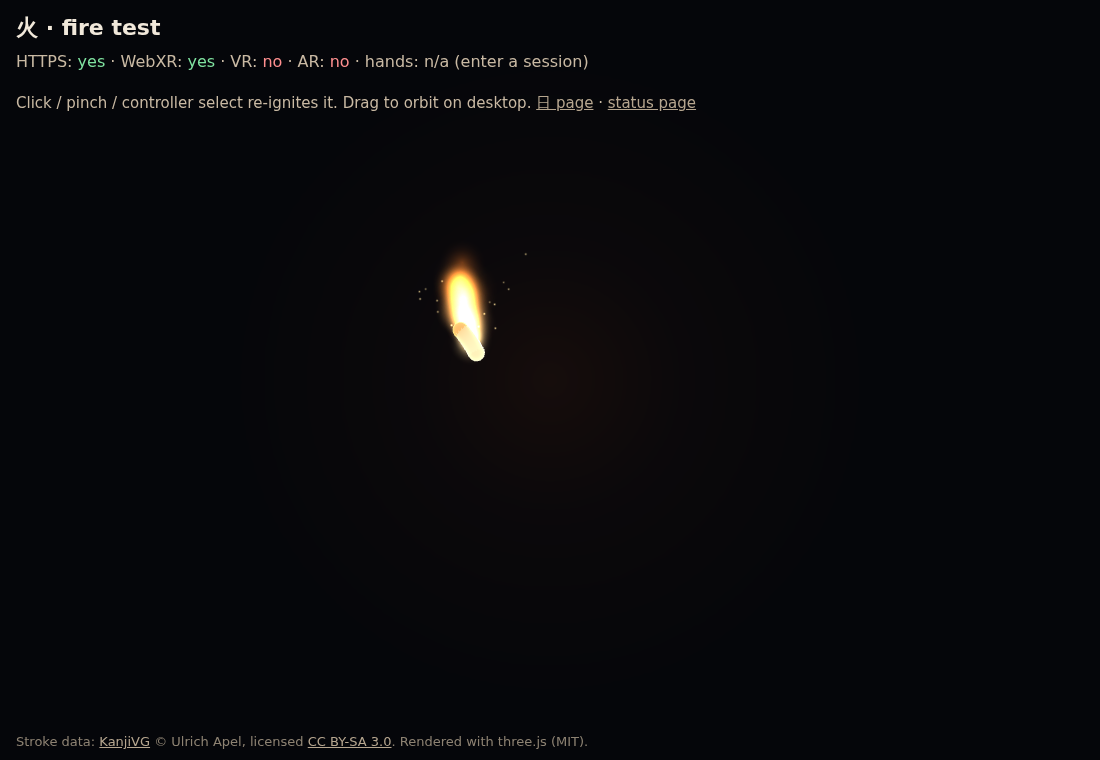
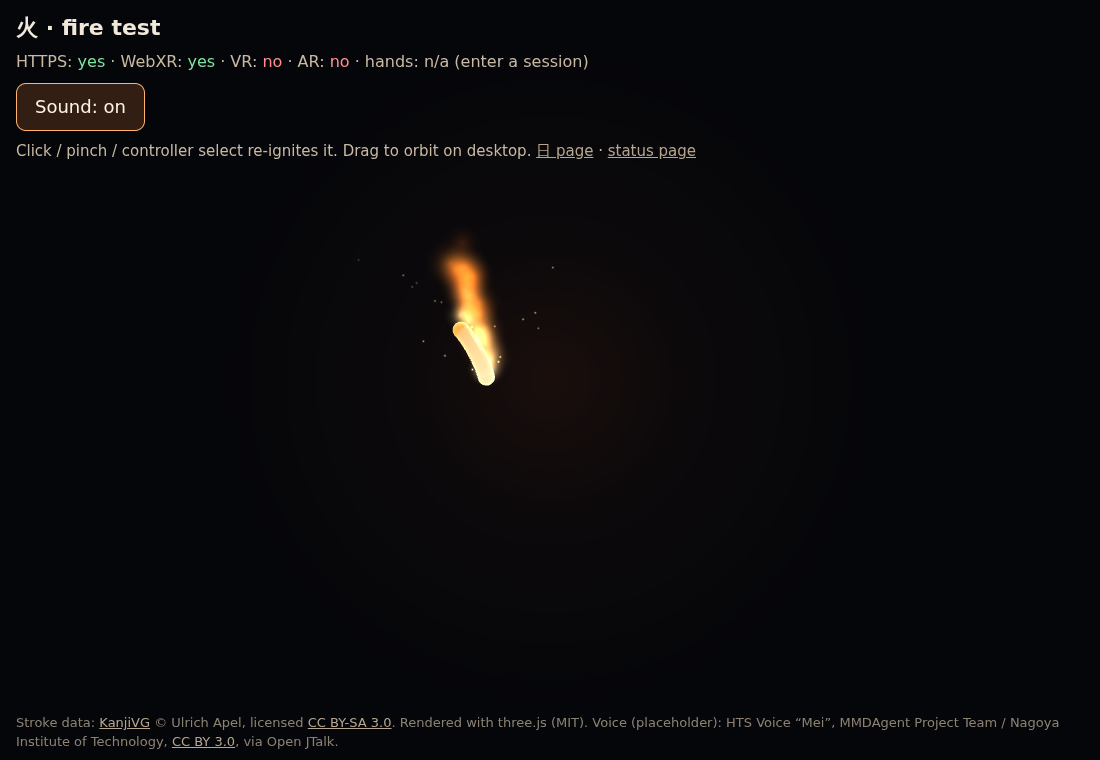
Fire page: faster strokes, calmer fire, furigana fade-in, spoken reading
- Stroke burn time x0.6 (all strokes done in ~2.9s, was ~4.6s)
- Flame density, size and opacity reduced ~20%
- Furigana (ひ) fades in above the glyph when the last stroke finishes
- Spoken ひ via Open JTalk (placeholder voice) with scripts/make-audio.py and a Sound toggle
- README and credits updated

Claude-Session: https://claude.ai/code/session_01AaNQvAE4ZjNRzfYPZ61ATu

Changed region(s): [[0.0, 0.0908, 0.6491, 0.2118], [0.0, 0.9382, 0.9582, 0.9987], [0.3709, 0.3026, 0.4636, 0.5145]]

diff --git a/src/fire.js b/src/fire.js
@@ -10,11 +10,12 @@ const STROKE_WIDTH_UNITS = 6.5; // KanjiVG units
 const DEPTH_RATIO = 1.6;
 const DIST = 1.2;               // metres in front of the viewer in XR
 const DESKTOP_POS = new THREE.Vector3(0, 1.4, -DIST);
-const IGNITE_START = 0.6;       // seconds of darkness before the first stroke is lit
-const STROKE_GAP = 0.1;
-const FLAME_PER_RING = 1.3;     // flames per second per burning stroke sample
+const IGNITE_START = 0.5;       // seconds of darkness before the first stroke is lit
+const STROKE_GAP = 0.06;
+const STROKE_SPEED = 0.6;       // multiplies every stroke's burn time (1 = the first version, 0.6 = 40% shorter)
+const FLAME_PER_RING = 1.0;     // flames per second per burning stroke sample
 const EMBER_PER_RING = 0.07;
-const FRONT_FLAMES = 110, FRONT_SPARKS = 70; // per second at each moving flame front
+const FRONT_FLAMES = 90, FRONT_SPARKS = 60; // per second at each moving flame front
 const MAX_P = 1800;             // particle pool size
 
 const params = new URLSearchParams(location.search);
@@ -150,7 +151,7 @@ let cursor = IGNITE_START;
 const capGeo = new THREE.SphereGeometry(RADIUS, 20, 14);
 const strokes = kanji.strokes.map((s, si) => {
   const pts = s.points.map(([x, y]) => new THREE.Vector3((x - cx) * S, -(y - cy) * S, 0));
-  const dur = 0.35 + s.length * 0.012, start = cursor;
+  const dur = (0.35 + s.length * 0.012) * STROKE_SPEED, start = cursor;
   cursor += dur + STROKE_GAP;
   const heat = new Float32Array(pts.length * RADIAL);
   const segs = pts.length - 1;
@@ -162,6 +163,48 @@ const strokes = kanji.strokes.map((s, si) => {
   return { si, pts, dur, start, segs, heat, tIgn, tube, startCap, tip };
 });
 const BURN_END = cursor;
+const STROKES_END = Math.max(...strokes.map((s) => s.start + s.dur)); // the last stroke has finished: furigana and sound start here
+
+// furigana: the reading, floating above the glyph, drawn on top of the flames and faded in once the strokes finish
+const READING = 'ひ';
+function readingTexture(txt) {
+  const c = document.createElement('canvas'); c.width = c.height = 256;
+  const g = c.getContext('2d');
+  g.textAlign = 'center'; g.textBaseline = 'middle';
+  g.font = '700 190px "Noto Sans CJK JP","Noto Sans JP","Hiragino Sans","Yu Gothic",Meiryo,sans-serif';
+  g.shadowColor = 'rgba(255,150,60,0.9)'; g.shadowBlur = 28; g.fillStyle = '#fff4de';
+  g.fillText(txt, 128, 138); g.fillText(txt, 128, 138); // twice thickens the glow
+  const tex = new THREE.CanvasTexture(c); tex.colorSpace = THREE.SRGBColorSpace;
+  return tex;
+}
+const FURI_Y = GLYPH_HEIGHT / 2 + 0.115;
+const furiBackMat = new THREE.MeshBasicMaterial({ map: radialTexture(), color: 0x000000, transparent: true, opacity: 0, depthTest: false, depthWrite: false });
+const furiBack = new THREE.Mesh(new THREE.PlaneGeometry(0.32, 0.32), furiBackMat);
+const furiMat = new THREE.MeshBasicMaterial({ map: readingTexture(READING), transparent: true, opacity: 0, depthTest: false, depthWrite: false });
+const furi = new THREE.Mesh(new THREE.PlaneGeometry(0.14, 0.14), furiMat);
+furiBack.renderOrder = 19; furi.renderOrder = 20;
+furiBack.position.set(0, FURI_Y, 0.03); furi.position.set(0, FURI_Y, 0.04);
+group.add(furiBack, furi);
+function applyFurigana(t) {
+  const f = smooth((t - STROKES_END) / 0.7);
+  furiMat.opacity = f; furiBackMat.opacity = 0.3 * f; // faint dark backing keeps it legible over bright flames
+  furi.position.y = FURI_Y - 0.02 * (1 - f);
+}
+
+// spoken reading (placeholder voice, see scripts/make-audio.py). Plays once when the strokes finish.
+const sayAudio = new Audio('./audio/hi.mp3');
+sayAudio.preload = 'auto';
+sayAudio.addEventListener('error', () => { state.note = 'Could not load audio/hi.mp3'; renderStatus(); });
+let soundOn = true, said = false;
+function say() {
+  if (!soundOn) return;
+  sayAudio.currentTime = 0;
+  sayAudio.play().catch(() => { state.note = 'Sound is blocked until you tap the page once (browser autoplay rule).'; renderStatus(); });
+}
+const soundBtn = document.createElement('button');
+soundBtn.textContent = 'Sound: on';
+soundBtn.onclick = () => { soundOn = !soundOn; soundBtn.textContent = 'Sound: ' + (soundOn ? 'on' : 'off'); state.note = ''; renderStatus(); };
+buttonsEl.appendChild(soundBtn);
 const allRings = [];
 for (const s of strokes) s.pts.forEach((_, i) => allRings.push({ s, i, t: s.tIgn[i] }));
 allRings.sort((a, b) => a.t - b.t);
@@ -222,7 +265,7 @@ const pMat = new THREE.ShaderMaterial({
       if (kind < 0.5) {            // flame: white-yellow -> orange -> red
         vec3 c0 = vec3(1.0, 0.92, 0.65), c1 = vec3(1.0, 0.5, 0.1), c2 = vec3(0.75, 0.12, 0.02);
         col = age < 0.35 ? mix(c0, c1, age / 0.35) : mix(c1, c2, (age - 0.35) / 0.65);
-        alpha = a * (1.0 - age) * 0.55;
+        alpha = a * (1.0 - age) * 0.46;
       } else if (kind < 1.5) {     // ember: flickering orange dot
         col = vec3(1.0, 0.55, 0.15);
         alpha = a * (1.0 - age) * (0.65 + 0.35 * sin(uTime * 12.0 + seed * 40.0));
@@ -275,7 +318,7 @@ function stepSim(t, dt) {
   acc.ember += burned * EMBER_PER_RING * dt;
   for (; acc.flame >= 1; acc.flame--) {
     const r = allRings[Math.floor(rnd() * burned)]; const [x, y, z] = surfacePoint(r.s, r.i, 1);
-    spawn(0, x, y, z, (rnd() - 0.5) * 0.04, 0.12 + rnd() * 0.16, (rnd() - 0.5) * 0.03, 0.9 + rnd() * 0.8, 0.045 + rnd() * 0.04);
+    spawn(0, x, y, z, (rnd() - 0.5) * 0.04, 0.12 + rnd() * 0.16, (rnd() - 0.5) * 0.03, 0.9 + rnd() * 0.8, 0.04 + rnd() * 0.035);
   }
   for (; acc.ember >= 1; acc.ember--) {
     const r = allRings[Math.floor(rnd() * burned)]; const [x, y, z] = surfacePoint(r.s, r.i, 1.5);
@@ -287,7 +330,7 @@ function stepSim(t, dt) {
     const p = (t - s.start) / s.dur;
     if (p <= 0 || p >= 1.05) continue;
     const tip = s.tip.position;
-    for (let n = acc.front; n >= 1; n--) spawn(0, tip.x + (rnd() - 0.5) * RADIUS, tip.y, tip.z + (rnd() - 0.5) * RZ, (rnd() - 0.5) * 0.06, 0.14 + rnd() * 0.18, (rnd() - 0.5) * 0.05, 0.6 + rnd() * 0.5, 0.05 + rnd() * 0.035);
+    for (let n = acc.front; n >= 1; n--) spawn(0, tip.x + (rnd() - 0.5) * RADIUS, tip.y, tip.z + (rnd() - 0.5) * RZ, (rnd() - 0.5) * 0.06, 0.14 + rnd() * 0.18, (rnd() - 0.5) * 0.05, 0.6 + rnd() * 0.5, 0.045 + rnd() * 0.03);
     for (let n = acc.spark; n >= 1; n--) {
       const a = rnd() * Math.PI * 2, sp = 0.15 + rnd() * 0.35;
       spawn(2, tip.x, tip.y, tip.z, Math.cos(a) * sp, 0.1 + rnd() * sp, (rnd() - 0.5) * sp, 0.35 + rnd() * 0.45, 0.006);
@@ -323,9 +366,10 @@ function stepSim(t, dt) {
   // the fire lights the room: bloom follows how much of the glyph is burning, with a fast flicker
   const burn = Math.min(1, burned / allRings.length);
   const flicker = 0.85 + 0.15 * Math.sin(t * 13.0) * Math.sin(t * 7.3 + 1.0) + 0.08 * Math.sin(t * 31.0);
-  bloomMat.opacity = (0.06 + 0.5 * burn) * flicker;
+  bloomMat.opacity = (0.06 + 0.42 * burn) * flicker;
   bloom.scale.setScalar(0.8 + 0.45 * burn);
   pMat.uniforms.uTime.value = t;
+  applyFurigana(t);
 }
 
 // ---------- timing / replay ----------
@@ -337,11 +381,11 @@ function simulateTo(t) {
   for (let tau = 0; tau < t; tau += h) stepSim(tau, h);
   stepSim(t, 0);
 }
-function replay() { frozen = null; resetSim(); t0 = last = performance.now(); }
+function replay() { frozen = null; said = false; resetSim(); t0 = last = performance.now(); }
 window.__setTime = (t) => { frozen = t; simulateTo(t); };
 if (frozen !== null) simulateTo(frozen);
 window.__ready = true;
-window.__dbg = { camera, controls };
+window.__dbg = { camera, controls, audio: sayAudio };
 
 let down = null;
 renderer.domElement.addEventListener('pointerdown', (e) => { down = [e.clientX, e.clientY]; });
@@ -423,7 +467,9 @@ renderer.setAnimationLoop((now, frame) => {
   if (frozen === null) {
     const nowMs = performance.now();
     const dt = Math.min(0.05, (nowMs - last) / 1000); last = nowMs;
-    stepSim((nowMs - t0) / 1000, dt);
+    const t = (nowMs - t0) / 1000;
+    stepSim(t, dt);
+    if (!said && t >= STROKES_END) { said = true; say(); }
   }
   if (controls.enabled) controls.update();
   renderer.render(scene, camera);

diff --git a/fire.html b/fire.html
@@ -29,7 +29,7 @@
   <div id="buttons"></div>
   <div id="hint">Click / pinch / controller select re-ignites it. Drag to orbit on desktop. <a href="./">日 page</a> · <a href="status.html">status page</a></div>
 </div>
-<div id="footer">Stroke data: <a href="https://kanjivg.org">KanjiVG</a> © Ulrich Apel, licensed <a href="https://creativecommons.org/licenses/by-sa/3.0/">CC BY-SA 3.0</a>. Rendered with three.js (MIT).</div>
+<div id="footer">Stroke data: <a href="https://kanjivg.org">KanjiVG</a> © Ulrich Apel, licensed <a href="https://creativecommons.org/licenses/by-sa/3.0/">CC BY-SA 3.0</a>. Rendered with three.js (MIT). Voice (placeholder): HTS Voice “Mei”, MMDAgent Project Team / Nagoya Institute of Technology, <a href="https://creativecommons.org/licenses/by/3.0/">CC BY 3.0</a>, via Open JTalk.</div>
 <script type="importmap">
 { "imports": { "three": "./vendor/three/three.module.js" } }
 </script>

diff --git a/scripts/make-audio.py b/scripts/make-audio.py
@@ -1,0 +1,33 @@
+#!/usr/bin/env python3
+"""Generate the spoken reading for the 火 page with Open JTalk (offline, no network at run time).
+
+Setup (once):  python3 -m venv .venv-tts && . .venv-tts/bin/activate && pip install pyopenjtalk-plus soundfile
+Run:           python3 scripts/make-audio.py          -> audio/hi.mp3  (needs ffmpeg)
+
+This is a PLACEHOLDER voice: the bundled "Mei" HTS voice is intelligible but robotic. To use something better
+(VOICEVOX, Azure, Google ...), render the same kana and overwrite audio/hi.mp3; the page does not care how it was made.
+Voice credit: HTS Voice "Mei", MMDAgent Project Team / Nagoya Institute of Technology, CC BY 3.0.
+"""
+import subprocess, sys
+import numpy as np
+import pyopenjtalk, soundfile as sf
+
+KANA = "ひ"          # reading shown as furigana on 火; we synthesise the kana, never the bare kanji, so the reading is fixed
+EXPECT = "h i"       # phonemes we expect Open JTalk to produce for it
+
+ph = pyopenjtalk.g2p(KANA)
+if ph != EXPECT:
+    sys.exit(f"unexpected phonemes for {KANA}: {ph!r} (expected {EXPECT!r})")
+
+x, sr = pyopenjtalk.tts(KANA)
+x = x.astype(np.float32) / 32768.0
+# trim leading / trailing silence, keep a short pad, fade the edges, normalise to -3 dBFS
+active = np.where(np.abs(x) > 0.02)[0]
+a, b = max(0, active[0] - int(0.03 * sr)), min(len(x), active[-1] + int(0.06 * sr))
+x = x[a:b]
+fade = int(0.01 * sr)
+x[:fade] *= np.linspace(0, 1, fade); x[-fade:] *= np.linspace(1, 0, fade)
+x *= 0.708 / np.abs(x).max()
+sf.write("/tmp/hi.wav", x, sr)
+subprocess.run(["ffmpeg", "-y", "-loglevel", "error", "-i", "/tmp/hi.wav", "-ac", "1", "-ar", "44100", "-b:a", "96k", "audio/hi.mp3"], check=True)
+print(f"wrote audio/hi.mp3 ({len(x) / sr:.2f}s) phonemes={ph!r}")

diff --git a/README.md b/README.md
@@ -11,7 +11,11 @@ https://b123radk-blip.github.io/JP-app/fire.html: 火 on its own, with the fire 
 - A flame front runs along each stroke as it is drawn (longer strokes take longer), with a column of flame and a spray of sparks at the tip.
 - Strokes behind the front glow white-hot, then cool to breathing embers (the charcoal body's glow is driven per vertex by how long ago the front passed).
 - Flames, embers and sparks rise from the stroke surfaces for as long as the page is open, and a warm bloom behind the glyph flickers with the fire.
-- Click / pinch / controller select re-ignites it. Code: `fire.html`, `src/fire.js`, data from `node scripts/build-kanji.mjs 706b`.
+- Timing: all strokes finish in about 2.9 s (was about 4.6 s). `STROKE_SPEED` at the top of `src/fire.js` scales every stroke's burn time; lower is faster.
+- Fire density, flame size and opacity were dialled down about 20% so the strokes stay readable (`FLAME_PER_RING`, `FRONT_FLAMES`, flame alpha and size in `src/fire.js`).
+- Furigana: when the last stroke finishes, the reading ひ fades in above the glyph over about 0.7 s, drawn on top of the flames over a faint dark backing. It is drawn with the device's own Japanese font (`READING` in `src/fire.js`).
+- Sound: when the strokes finish, a spoken "ひ" plays once (`audio/hi.mp3`). There is a "Sound: on/off" button on the 2D page. The voice is a **placeholder**: Open JTalk's "Mei" voice is intelligible but robotic. `python3 scripts/make-audio.py` regenerates it (the script checks the phonemes first), or overwrite `audio/hi.mp3` with a better recording / TTS render of the same kana.
+- Click / pinch / controller select re-ignites it (the furigana and sound restart too). Code: `fire.html`, `src/fire.js`, data from `node scripts/build-kanji.mjs 706b`.
 - Screenshots: `PAGE=fire.html PREFIX=fire- TIMES=0.9,1.5,2.4,3.6,5,8 npm run screenshots`.
 - Particle count is capped at 1800 (instanced billboard quads). If it stutters on the headset, lower `FLAME_PER_RING` / `MAX_P` at the top of `src/fire.js`.
 
@@ -55,3 +59,4 @@ Look at these first:
 ## Credits
 - Stroke data: [KanjiVG](https://kanjivg.org) © Ulrich Apel and contributors, licensed [CC BY-SA 3.0](https://creativecommons.org/licenses/by-sa/3.0/). The derived `data/kanji-65e5.json` is under the same licence.
 - [three.js](https://threejs.org) (MIT, see `vendor/three/LICENSE`).
+- Voice (placeholder): HTS Voice "Mei", MMDAgent Project Team / Nagoya Institute of Technology, [CC BY 3.0](https://creativecommons.org/licenses/by/3.0/), synthesised with Open JTalk (via `pyopenjtalk-plus`).
